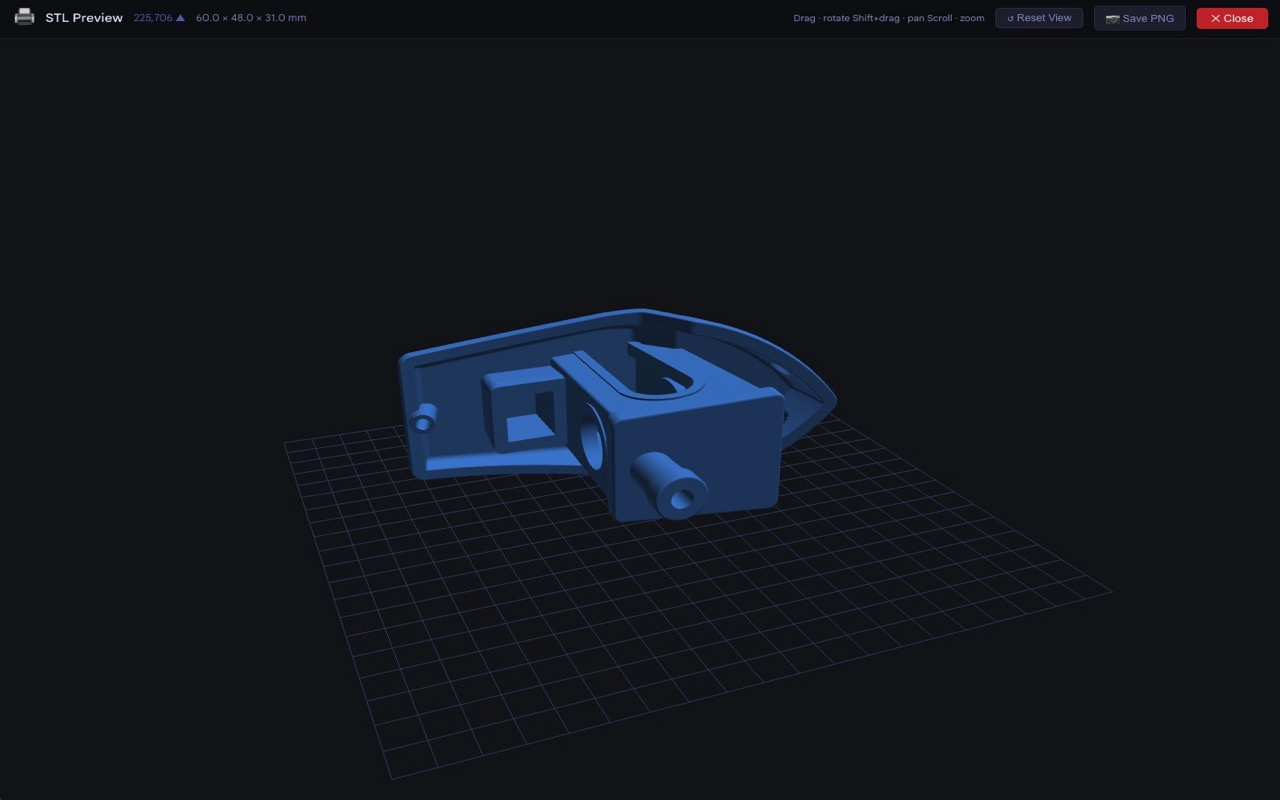
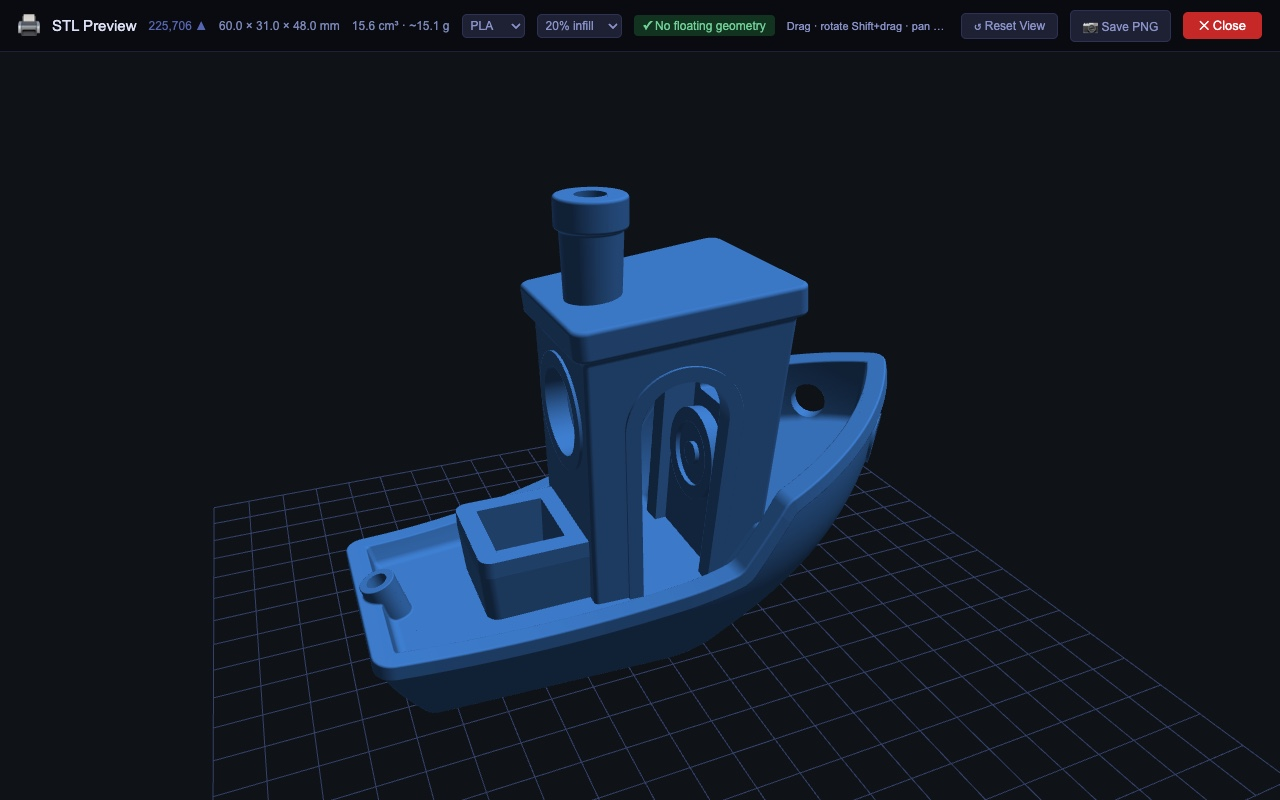
Update screenshot to 3DBenchy with the current toolbar
Shows the volume/weight readout, material and infill selectors and the
floating-geometry status pill added since the last screenshot. Rendered
at exactly 1280x800 with headless Chrome, so it's also valid as a Chrome
Web Store screenshot.

diff --git a/README.md b/README.md
@@ -10,7 +10,7 @@ Preview student STL files directly in Google Classroom without downloading them.
 
 When a student submits an STL file and Google Classroom shows "No preview available," this extension adds a **View in 3D** button. Click it to open a full-screen interactive 3D viewer — rotate, zoom, and check for floating geometry before sending anything to a printer.
 
-![STL Viewer showing a 3D printed part on a grid floor, with triangle count, dimensions, and controls in the toolbar](docs/screenshot.jpg)
+![STL Viewer showing 3DBenchy standing on a grid floor, with triangle count, dimensions, volume and weight, infill and material selectors, and the floating-geometry check in the toolbar](docs/screenshot.jpg)
 
 ---
 
